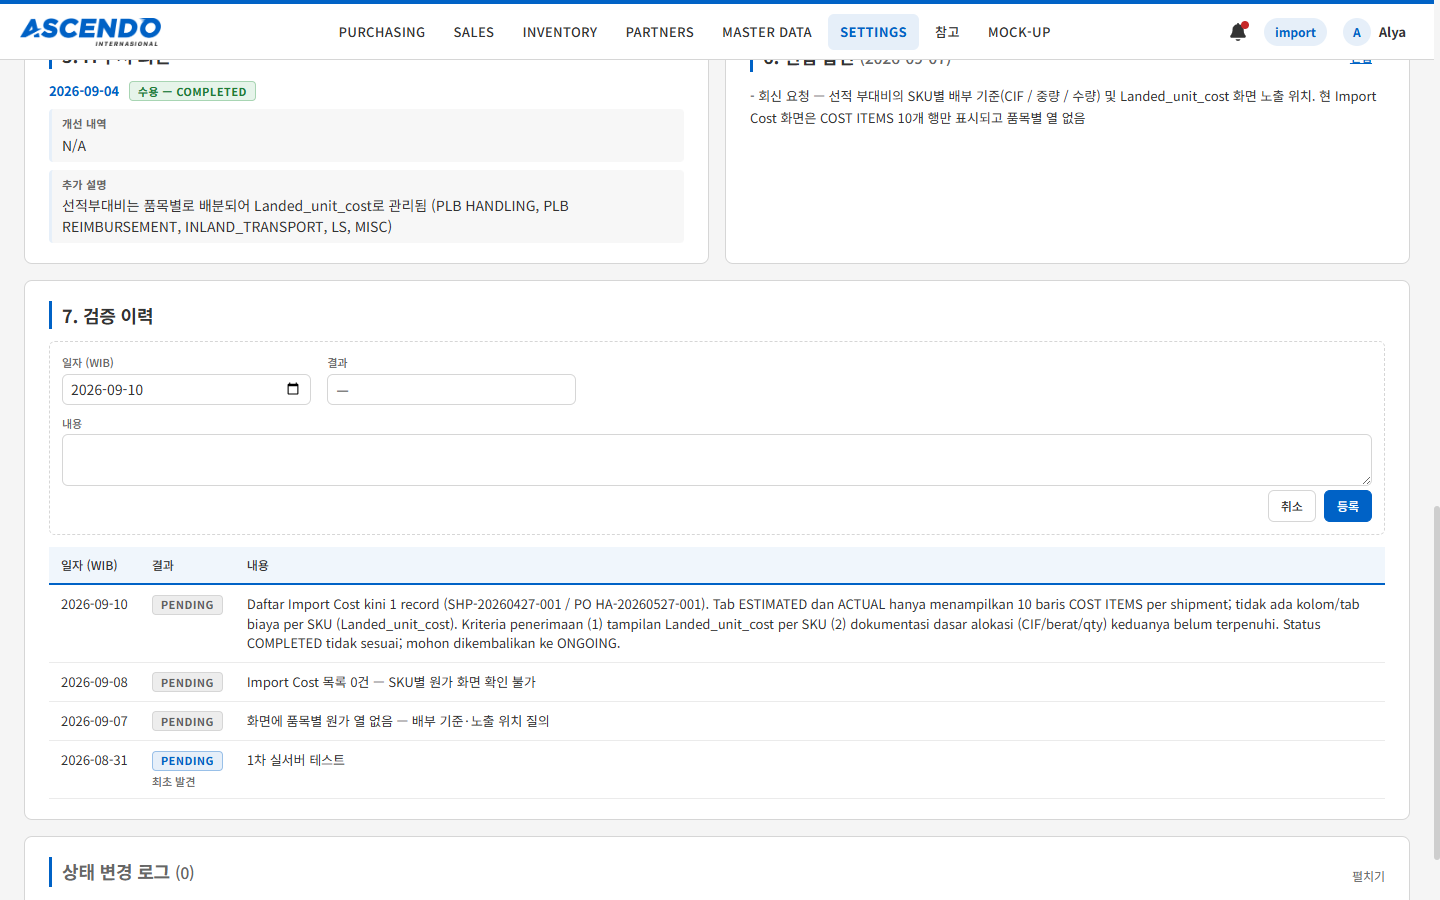
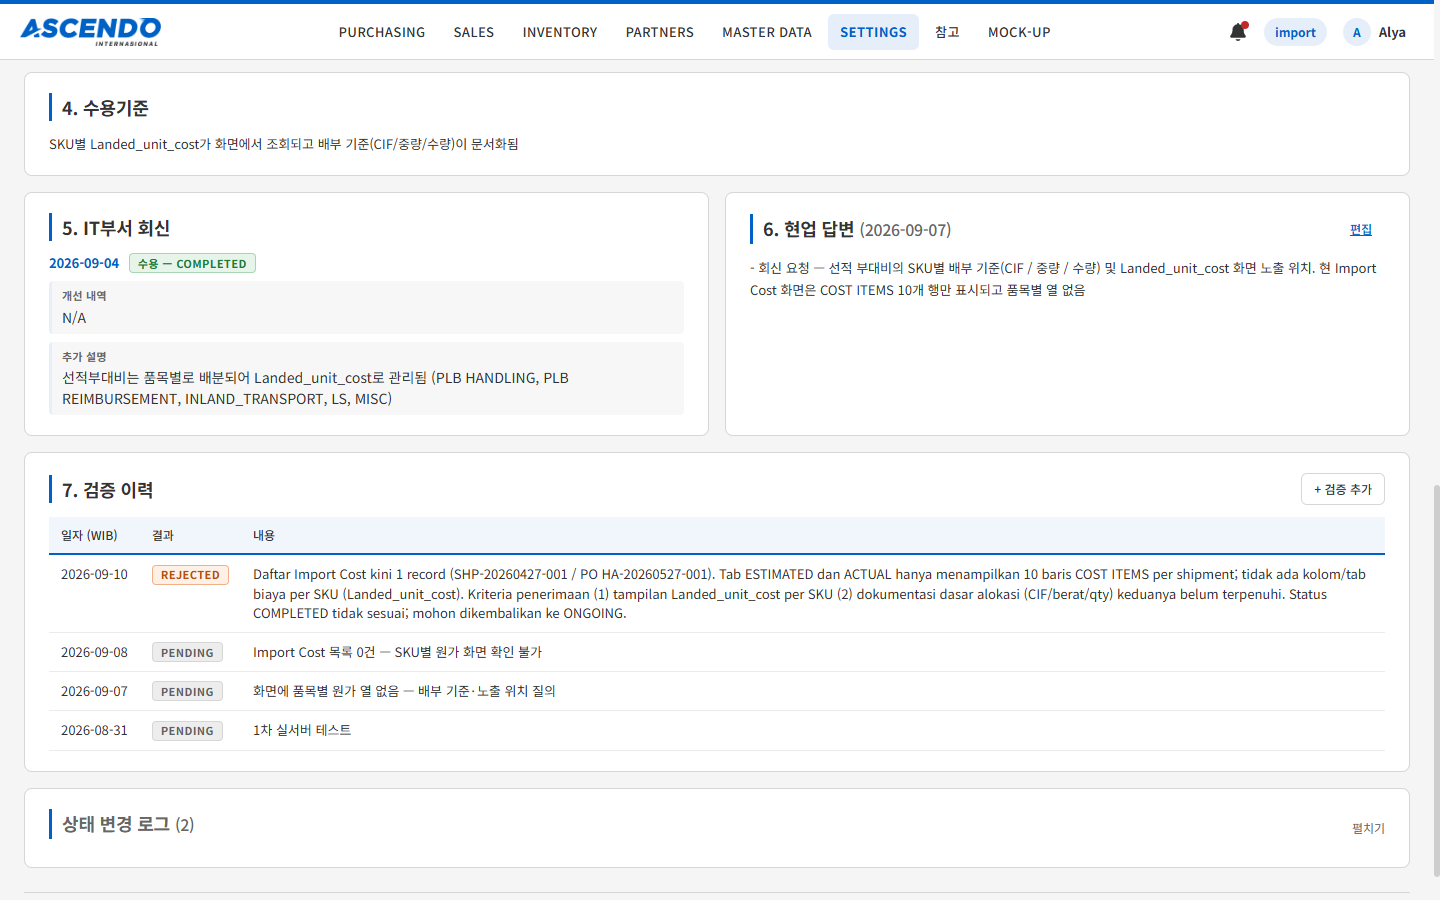
[CSR-1.1-I] 완료보고 — DB 적용 후 실측(A 가드 200/403 · B 트리거 · C 매핑 0 · D · E · H-4/5/6) · 스크린샷 갱신

diff --git a/docs/csr/ASM_CSR_v1.1_완료보고.md b/docs/csr/ASM_CSR_v1.1_완료보고.md
@@ -2,8 +2,8 @@
 
 - 작성일: 2026-09-10 · 작성: Claude(작업지시서 v1.1 수행) · 검수: 서종환
 - 저장소: `hungaseo-arch/asm` (`main` 푸시 = GitHub Pages 배포 `hungaseo-arch.github.io/asm/csr`)
-- DB 반영: `db/015` ~ `db/019` 를 Neon SQL Editor 에서 **번호 순으로** 실행해야 합니다. 화면(프론트)은 적용 전후
-  모두 동작합니다 — 종전 표기와 코드를 둘 다 읽습니다(`status.js mapLegacyVerifyStatus`).
+- DB 반영: **완료(2026-09-10)** — `db/015`(1~5 문장) · `015b` · `015c` · `016` · `017` · `018` · `019`. 015 는 콘솔에서
+  6번째 문장(가드)이 ERROR 로 끝나 015b/015c 로 나눠 재실행(본문 ASCII 화). 화면은 종전 표기와 코드를 둘 다 읽습니다.
 - 스크린샷: `docs/csr/shots/v1.1_*.png` (헤드리스 Chrome 1440×900, 계정 alya/business, 한국어 모드)
 
 ---
@@ -23,9 +23,10 @@
   - 프론트 거울: `config.js CSR_POLICY / canEditColumn`, 상세 편집 폼(현업은 Completed 건만 IT상태 셀렉트 = Completed·Verified,
     IT 는 Verified 제외).
 - **변경 파일**: `db/015_rls_guard_v2.sql`, `src/modules/csr/config.js`, `src/modules/csr/views/CsrDetailPage.vue`
-- **검증**: (콘솔 적용 후) admin 으로 `/csr/09` 편집 → PATCH 200 · IT상태 Open 변경 시도 → 403. it_dept(jklee) 로
-  IT상태 변경 → 200 · 현업검증 변경 → 403. 적용 전 실측: business PATCH(같은 값) 403 `permission denied for schema auth`,
-  business `it_pic` 변경 403 `column it_pic not editable by role business`(가드 자체는 동작).
+- **검증(적용 후, Data API · business/alya · CSR-202609-001 대상)**: 같은 값 PATCH **200** · 일반 컬럼(관련이슈) 변경 **200**(되돌림) ·
+  `it_pic` **403** `column it_pic not editable by role business (IT department only)` · `it_decision` **403** ·
+  `it_status Open→Ongoing` **403** `(Completed to Verified only)`. `updated_by` 에 사용자 ID 기록(래퍼 동작).
+  적용 전 실측: 같은 값 PATCH 도 403 `permission denied for schema auth`. admin·it_dept 계정 시나리오(H-1·H-2)는 서종환 실행.
 - **리스크**: admin 이 IT 전용 컬럼(담당자·목표배포일·IT수용여부·회신요약)을 화면에서 못 고치게 됨 — 지시서 A-2 그대로.
   잘못 들어간 IT 값 정정은 콘솔(SQL)로.
 
@@ -38,7 +39,9 @@
 - 화면: 이력 등록 성공 후 헤더·상태 로그를 **서버에서 재조회**(`refreshIssue`) 하고 목록 행에도 반영(`issues.replaceRow`).
   낙관적 갱신 없음.
 - **변경 파일**: `db/017_verification_sync.sql`, `CsrDetailPage.vue`, `stores/issues.js`
-- **검증**: (적용 후) `/csr/13` 「+ 검증 추가」 REJECTED → 헤더 최종검증일·현업검증 즉시 일치, 목록도 일치.
+- **검증(적용 후)**: 019 의 이력 INSERT → CSR-202609-001 헤더 PENDING / 2026-09-10 자동 세팅. 과거 일자(2026-09-09, NOT APPLIED)
+  이력을 Data API 로 넣어도 헤더는 PENDING / 09-10 유지(덮어쓰지 않음). ※ 이 테스트 행(csr_verifications id 266)은 삭제 대상.
+  H-3(`/csr/13` REJECTED 추가)은 서종환 실행.
 - **리스크**: 이력 **수정·삭제**는 동기화하지 않음(지시서 범위 밖, 화면에도 기능 없음).
 
 ## [CSR-1.1-C] 현업검증 상태 코드 표준화
@@ -56,8 +59,9 @@
 - **변경 파일**: `db/016_verify_status_codes.sql`, `status.js`(신규), `components/CsrStatusLegend.vue`(신규), `config.js`, `i18n.js`,
   `stores/issues.js`, `views/CsrListPage.vue`, `views/CsrDetailPage.vue`, `views/CsrDashboardPage.vue`,
   `views/CsrStatusGuidePage.vue`, `src/assets/asm-theme.css`
-- **검증(적용 전, 종전 표기 상태에서)**: 목록 60건 배지 전부 코드(한국어 배지 0), 교차표 합계 22·20·5·12·1 = 60(변경 전과 동일),
-  필터 REJECTED → 13번 1건, 폼 select 5개, 범례 4행·5행·규칙 2건. (적용 후) `verif_unmapped 0 · issues_unmapped 0` 재확인.
+- **검증**: 적용 전(종전 표기) 교차표 22·20·5·12·1 = 60 으로 변경 전과 동일. 적용 후 Data API: 이슈 64건(아카이브 포함) 전부 코드,
+  이력 156행 미매핑 0 · 원문 보존 155. 배포본 목록 61건 한국어 배지 0, 교차표 PENDING 23 · NOT APPLIED 18 · PARTIAL 7 · ACCEPTED 11 ·
+  REJECTED 2 = 61(D 정정 + 신규 1건 반영). 필터·폼 select 5개, 범례 4행·5행·규칙 2건.
 - **리스크**: 노션 재동기화 시 코드 → 옵션명 변환 필요(`NOTION_VERIFY_OPTION` 준비만 됨, 동기화 코드 없음).
 
 ## [CSR-1.1-D] 데이터 정정
@@ -66,13 +70,18 @@
   017 원칙(헤더 = 최신 이력)을 지키려고 **08 의 2026-09-10 이력(id 256, 종전 미검증) 결과도 REJECTED** 로 맞춤 — 그 이력의
   내용("Import Cost 1건 · SKU 열·탭 부재")이 정정 근거이기 때문. 60 의 09-10 이력 본문 교체(원문 ID, 한국어는 번역).
   02 담당자 `Import` — 노션 원본도 `Import`(사람 아님) → 공란.
-- **검증**: (적용 후) 파일 끝 SELECT 두 개 + 화면 스크린샷.
+- **검증(적용 후)**: 02 담당자 NULL · 08 REJECTED/09-10 · 09 PARTIAL/09-10 · 13 REJECTED/09-10 · 22 PARTIAL/09-10 · 23 NOT APPLIED/09-10 ·
+  27/28/30 ACCEPTED/09-10 · 60 PARTIAL/09-10. 08 이력 256 REJECTED, 60 이력 264 본문 "Pengecekan server produksi…". 상세 08 상태 로그 2건.
+  스크린샷 `v1.1_detail_08_head.png` · `v1.1_detail_08_verif.png`.
 
 ## [CSR-1.1-E] 신규 CSR-202609-001
 
 - `db/019_new_issue_202609_001.sql` — `csr_next_issue_no()` 가 `CSR-202609-001` 을 돌려줄 때만 등록(1회 1건). 검증 이력
   1행(2026-09-10 PENDING) 동반, 017 이 헤더를 맞춤. 화면경로는 영문 규칙(`Filter dropdown`). 한국어 번역(개선 의견·수용기준·
   검증 내용)은 Claude — 검수 대상. `findings_md`(현상)는 지시서에 없어 비움.
+
+- **검증(적용 후)**: id 101 · 목록 최하단(60 다음) 노출 · 상세 정상(PENDING · 미회신 · Open). `next_no = CSR-202609-002`.
+  스크린샷 `v1.1_H5_list_bottom.png` · `v1.1_H5_detail_new.png`.
 
 ## [CSR-1.1-F] 27번 분리 — **미실행**(Asura님 승인 대기). 승인 시 `CSR-202609-002` 로 019 와 같은 형식으로 등록.
 
@@ -87,7 +96,16 @@
 
 ## H. 검증 시나리오 — 배포 후 확인 결과
 
-(콘솔 적용 후 갱신)
+| # | 시나리오 | 결과 |
+|---|---|---|
+| 1 | admin `/csr/09` PARTIAL · 09-10 저장 → 목록 반영 | 데이터는 018 로 이미 반영. admin 저장 경로는 **서종환 실행 대기**(business 로는 같은 경로 200 확인) |
+| 2 | `/csr/30` VERIFIED 전환 성공 · OPEN 되돌리기 거부 | **서종환 실행 대기**(business 로 Open→Ongoing 403 확인, 규칙 동일) |
+| 3 | `/csr/13` 검증 추가 REJECTED → 헤더 자동 갱신 | 트리거 동작은 CSR-202609-001 로 확인. 13번 실제 등록은 **서종환 실행 대기** |
+| 4 | 「검증 대기」 = 08 · 13 · 27 · 28 · 30 (5건) | **확인** — `v1.1_H4_list_pending.png` |
+| 5 | CSR-202609-001 목록 최하단 · 상세 정상 | **확인** — `v1.1_H5_*.png` |
+| 6 | `hungaseo-arch.github.io/asm/csr/08` 직접 진입 | **확인** — 앱이 그려지고 로그인 안내 표시(404 페이지 아님) |
+
+- 테스트 잔재 정리: `DELETE FROM public.csr_verifications WHERE id = 266;` (B 검증용 과거 일자 이력, CSR-202609-001)
 
 ## 잔여 리스크
 

diff --git a/CHANGELOG.md b/CHANGELOG.md
@@ -24,12 +24,13 @@ Pages 로 배포하므로 **`main` 이 곧 배포본**입니다.
   Data API 실측: 38행 · 이슈 01~38 각 1건 · 중복 0. 39~60 은 Notion 에도 캡쳐 없음(현지 요청 건).
   상세 §1 썸네일·「+ 캡쳐 추가」·admin 삭제 동작 확인
 
-### 2026-09-10 — 작업지시서 v1.1 (잔여 작업) · DB 015~019 콘솔 적용 대기
+### 2026-09-10 — 작업지시서 v1.1 (잔여 작업) · DB 015/015b/015c/016~019 적용 완료
 
 - **[A] `csr_issues` UPDATE 403 원인·수정** — 가드가 `auth.user_id()` 를 호출자 권한으로 불러 `permission denied for schema auth`.
   `db/015`: SECURITY DEFINER 래퍼 `csr_actor_id()` + 컬럼 가드 v2(R&R 2026-09-08: admin·business 는 IT 전용 컬럼 제외,
   it_status 는 Completed → Verified 만 / it_dept 는 IT 전용 컬럼만, Verified 불가). it_decision 이 IT 전용으로 이관.
-  프론트 `CSR_POLICY`·상세 편집 폼도 같은 규칙
+  프론트 `CSR_POLICY`·상세 편집 폼도 같은 규칙. 콘솔에서 015 의 가드 문장이 ERROR → `015b`(가드, ASCII 본문)·`015c`(로그)로 재실행.
+  적용 후 Data API 실측: 같은 값 PATCH 200, IT 전용 컬럼·상태 전이 403, updated_by 에 사용자 ID
 - **[B] 검증 이력 → 헤더 동기화** — `db/017` AFTER INSERT 트리거(최신 일자만 덮어씀). 화면은 등록 후 서버 재조회 + 목록 행 반영
 - **[C] 현업검증 코드 5종** — `db/016`(legacy 컬럼 보존 · 매핑 · CHECK). 상수 1곳 `status.js`. 배지 = 코드 + 툴팁,
   REJECTED 주황(`.asm-badge--orange`), 이력 폼 결과 select, 목록 현업검증·담당자 필터, 범례 컴포넌트(목록·상세, 3개 언어),
